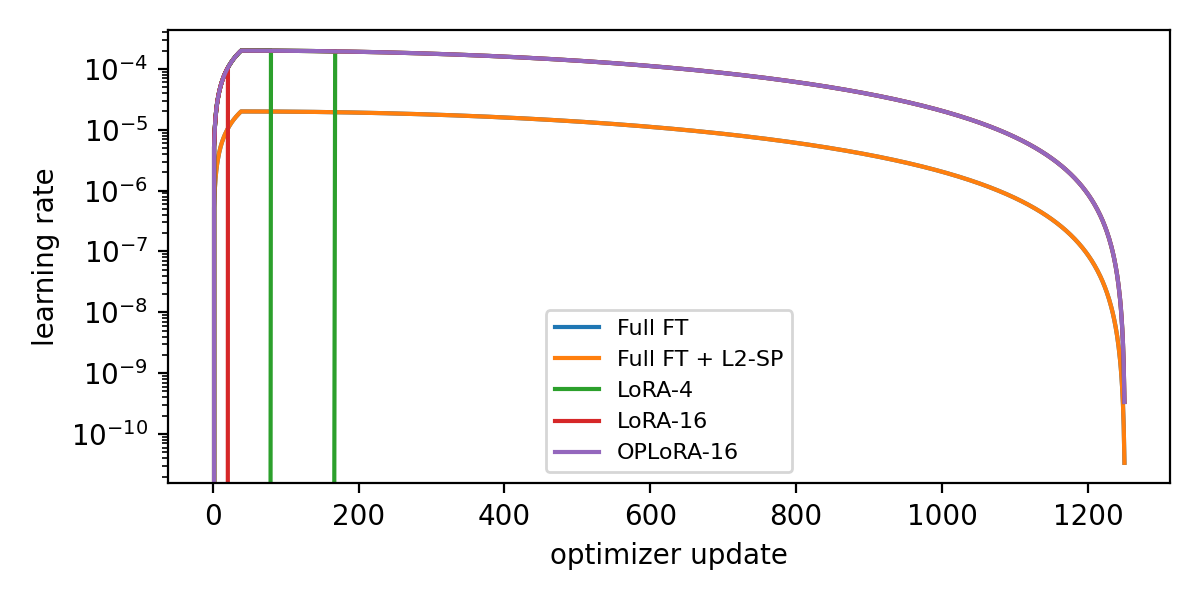
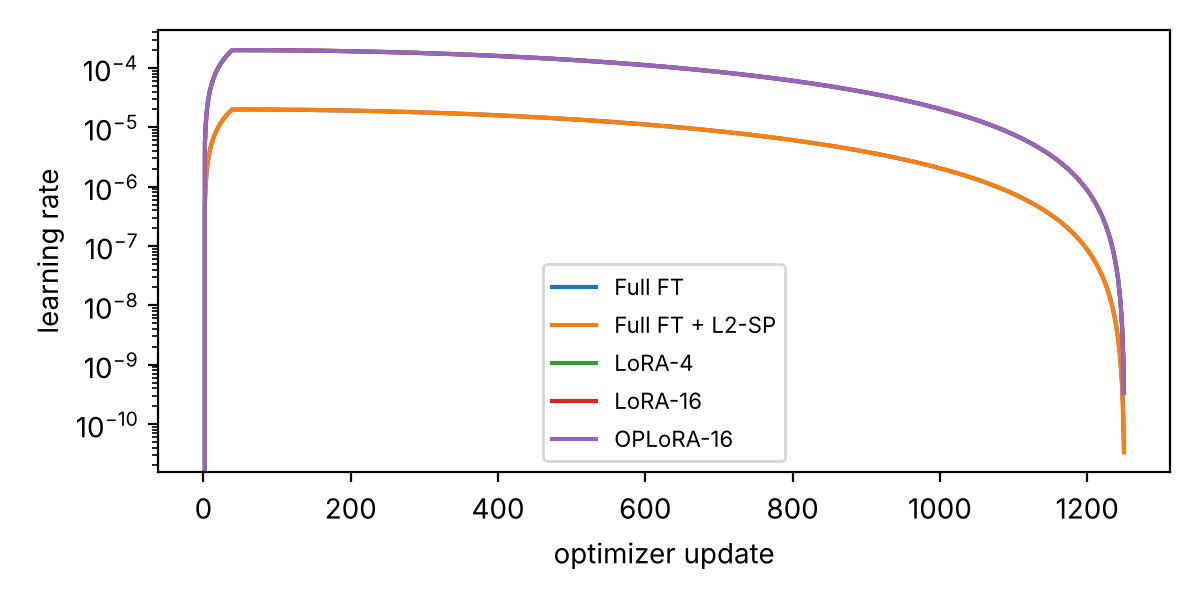
Task 1: keep only the final attempt in training logs; regenerate figures
LoRA-4 and LoRA-16 were restarted from scratch before their first checkpoint, and
the trainer only trimmed the log on resume, so early updates appeared up to three
times and the loss/LR plots drew lines back to update 0.

- common/utils.py: final_attempt_log() keeps the last row per update.
- task1/analyze.py: uses it for curves/regularization; committed logs are cleaned,
  with dropped-row counts in results/task1/runs/log_cleaning.json.
- task1/train.py, task2/train.py: clear the log on a fresh start.
- Regenerated results/task1/report figures (tables and regularization unchanged).
- report/progress: real OPLoRA constraint residuals; Task 1 run notes.

Claude-Session: https://claude.ai/code/session_01EvFs4FW3gdZLJCbrekro76

diff --git a/task1/analyze.py b/task1/analyze.py
@@ -7,6 +7,8 @@ Outputs in results/task1/report/:
   sft_loss.png, lr.png, l2sp_terms.png, benchmarks.png, diagnostics.png
 """
 import argparse
+import json
+import os
 import shutil
 
 import matplotlib
@@ -16,7 +18,8 @@ import matplotlib.pyplot as plt
 import numpy as np
 import pandas as pd
 
-from common.utils import REPO_ROOT, load_config, load_json, out_root, read_jsonl, results_root, save_json
+from common.utils import (REPO_ROOT, final_attempt_log, load_config, load_json, out_root, read_jsonl, results_root,
+                          save_json)
 
 PRIMARY = [("gsm8k", "flexible_em", "GSM8K (flex EM)"), ("hellaswag", "acc_norm", "HellaSwag (acc_norm)"),
            ("boolq", "acc", "BoolQ (acc)"), ("arc_easy", "acc_norm", "ARC-Easy (acc_norm)")]
@@ -83,7 +86,7 @@ def training_curves(out):
         p = out_root() / "task1/runs" / v / "train_log.jsonl"
         if not p.exists():
             continue
-        log = read_jsonl(p)
+        log = final_attempt_log(read_jsonl(p))
         u = np.array([r["update"] for r in log])
         loss = [r["sft_loss"] for r in log]
         s = smooth(loss)
@@ -130,7 +133,7 @@ def resources(out):
             if k in s and s[k]:
                 r[k] = s[k] / 2**20 if k.endswith("bytes") else s[k]
         rows.append(r)
-        log = read_jsonl(out_root() / "task1/runs" / v / "train_log.jsonl")
+        log = final_attempt_log(read_jsonl(out_root() / "task1/runs" / v / "train_log.jsonl"))
         reg[v] = {"displacement": s.get("displacement"), "final_sft_loss_avg_last50": float(np.mean([r["sft_loss"] for r in log[-50:]]))}
         if v == "full_ft_l2sp":
             reg[v].update({"omega_final": log[-1]["omega"], "lambda_omega_final": log[-1]["lambda_omega"],
@@ -169,13 +172,32 @@ def diagnostics_fig(out):
 
 
 def sync_run_logs():
-    """Copy small per-run logs from $PA3_OUT into results/ so they are committed with the repo."""
+    """Copy small per-run logs from $PA3_OUT into results/ so they are committed with the repo.
+
+    The committed train_log.jsonl keeps only the final attempt's rows (see final_attempt_log); how many rows of
+    earlier from-scratch attempts were dropped is recorded in results/task1/runs/log_cleaning.json.
+    """
+    cleaning = {}
     for v in VARIANTS:
-        src = out_root() / "task1/runs" / v
+        src, dst = out_root() / "task1/runs" / v, results_root() / "task1/runs" / v
         for f in ("train_log.jsonl", "summary.json", "meta.json", "ckpt_sizes.json"):
-            if (src / f).exists():
-                (results_root() / "task1/runs" / v).mkdir(parents=True, exist_ok=True)
-                shutil.copy(src / f, results_root() / "task1/runs" / v / f)
+            if not (src / f).exists():
+                continue
+            dst.mkdir(parents=True, exist_ok=True)
+            if f == "train_log.jsonl":
+                rows = read_jsonl(src / f)
+                keep = final_attempt_log(rows)
+                tmp = dst / (f + ".tmp")
+                with open(tmp, "w", encoding="utf-8") as fh:
+                    for r in keep:
+                        fh.write(json.dumps(r) + "\n")
+                os.replace(tmp, dst / f)
+                cleaning[v] = {"rows_in_log": len(rows), "rows_kept": len(keep),
+                               "earlier_attempt_rows_dropped": len(rows) - len(keep)}
+            elif (src / f).resolve() != (dst / f).resolve():
+                shutil.copy(src / f, dst / f)
+    if cleaning:
+        save_json(cleaning, results_root() / "task1/runs/log_cleaning.json")
 
 
 def main():

diff --git a/report/main.tex b/report/main.tex
@@ -92,7 +92,7 @@ Frozen weights & -- & -- & FP16 & FP16 & FP16 \\\bottomrule
 \item \textbf{Loss.} Summed token cross-entropy divided by the number of supervised tokens in the whole effective batch, so every token has equal weight regardless of how examples fall into micro-batches. The LM head is applied only at supervised positions.
 \item \textbf{Schedule.} We use the Hugging Face cosine schedule with warmup, which starts at LR 0, so update 1 makes no parameter change.
 \item \textbf{L2-SP.} The penalty $\frac{\lambda}{2}\|\theta-\theta_0\|^2$ covers all parameters. Its gradient $\lambda(\theta-\theta_0)$ is added after unscaling and before clipping, so clipping applies to the full objective. $\theta_0$ is an FP32 copy on the GPU, whose memory and time are reported as overhead. AdamW's decoupled weight decay (0.01) remains active in this run as in all others, so L2-SP acts on top of it.
-\item \textbf{LoRA and OPLoRA.} Implemented from scratch (no PEFT). $A$ uses Kaiming-uniform initialization ($a=\sqrt5$, as in PEFT) and $B=0$; initialization is seeded per module name, so LoRA-16 and OPLoRA-16 begin from identical factors. OPLoRA computes the top-$k$ left and right singular vectors $U_k,V_k$ of each frozen $W_0$ once in FP32 and uses projected factors $\tilde B=(I-U_kU_k^\top)B$ and $\tilde A=A(I-V_kV_k^\top)$, so $\Delta W=\frac{\alpha}{r}\tilde B\tilde A$ is orthogonal to both subspaces. Projections run in FP32 outside autocast; the measured constraint residual is about $3\times10^{-7}$.
+\item \textbf{LoRA and OPLoRA.} Implemented from scratch (no PEFT). $A$ uses Kaiming-uniform initialization ($a=\sqrt5$, as in PEFT) and $B=0$; initialization is seeded per module name, so LoRA-16 and OPLoRA-16 begin from identical factors. OPLoRA computes the top-$k$ left and right singular vectors $U_k,V_k$ of each frozen $W_0$ once in FP32 and uses projected factors $\tilde B=(I-U_kU_k^\top)B$ and $\tilde A=A(I-V_kV_k^\top)$, so $\Delta W=\frac{\alpha}{r}\tilde B\tilde A$ is orthogonal to both subspaces. Projections run in FP32 outside autocast. On the exported factors the relative constraint residuals $\|U_k^\top\tilde B\|/\|\tilde B\|$ and $\|\tilde A V_k\|/\|\tilde A\|$ are at most $1.3\times10^{-4}$ and $1.9\times10^{-4}$, and $\rho_k$ of the trained update is below $10^{-7}$ at every diagnosed layer.
 \item \textbf{Export check.} Adapters are merged into FP16 weights ($W_0+\Delta W$ computed in FP32) for evaluation. Merged and unmerged logits are compared, and the OPLoRA constraint is re-verified on the exported factors.
 \item \textbf{Checkpoints.} Checkpoints are written at updates 312, 625, 937 and 1{,}250; weights at 625 and 1{,}250 are kept for evaluation. Only the newest checkpoint keeps optimizer state. Resuming from a checkpoint was verified to reproduce uninterrupted training exactly.
 \item \textbf{Evaluation.} The primary metrics are flexible-extract exact match for GSM8K and \texttt{acc\_norm} for HellaSwag and ARC-Easy, \texttt{acc} for BoolQ. Because lm-eval does not pass \texttt{enable\_thinking} to the chat template, a small subclass renders it with thinking disabled, and the rendered GSM8K prompt is asserted to contain the empty think block. GSM8K uses the task's stock stop sequences and filters with a fixed generation batch of 64; likelihood tasks use no chat template.

diff --git a/common/utils.py b/common/utils.py
@@ -72,6 +72,18 @@ def truncate_jsonl(path, key, max_value):
     return len(rows) - len(keep)
 
 
+def final_attempt_log(rows, key="update"):
+    """Rows of the attempt that produced the final weights: the last occurrence of each key value, in key order.
+
+    A run restarted from scratch before its first checkpoint (or written by an older trainer that did not clear
+    the log on a fresh start) repeats the early updates; later attempts always come after earlier ones in the file.
+    """
+    last = {}
+    for r in rows:
+        last[r[key]] = r
+    return [last[k] for k in sorted(last)]
+
+
 def read_jsonl(path):
     with open(path, "r", encoding="utf-8") as f:
         return [json.loads(line) for line in f if line.strip()]

diff --git a/task1/train.py b/task1/train.py
@@ -241,6 +241,11 @@ def main():
         start = s["update"]
         dropped = truncate_jsonl(run_dir / "train_log.jsonl", "update", start)
         print(f"resumed from {ck.name} (update {start}); dropped {dropped} log lines past the checkpoint", flush=True)
+    else:
+        # fresh start: discard rows from an earlier attempt that never reached a checkpoint
+        dropped = truncate_jsonl(run_dir / "train_log.jsonl", "update", 0)
+        if dropped:
+            print(f"no checkpoint: starting from update 0; dropped {dropped} log lines of an earlier attempt", flush=True)
 
     n_trainable = count_params(trainable)
     meta = {"variant": args.variant, "method": method, "lr": vcfg["lr"], "l2sp_lambda": lam,

diff --git a/task2/train.py b/task2/train.py
@@ -172,6 +172,9 @@ def main():
                               seed=cfg["seed"])
         save_json(cal, results_root() / "task2" / run / "calibration.json")
         st["calibration"] = cal
+        # fresh start: discard log rows of an earlier attempt that never reached a checkpoint
+        for f in ("train_log.jsonl", "dev_log.jsonl"):
+            truncate_jsonl(rd / f, "update", -1)
     else:
         st = resume["state"]
         vlm.connector.load_state_dict(resume["connector"])

diff --git a/progress.md b/progress.md
@@ -18,6 +18,13 @@ All three tasks have complete pipelines that run end to end in CPU smoke tests: 
 - On resume, `train_log.jsonl` (and the Task 2 `dev_log.jsonl`) are trimmed to the checkpoint's update, so updates are never logged twice.
 - Notebooks set `PA3_RESULTS` to Drive (`MyDrive/ATML-PA3/results`), seeded from the committed `results/`; the save cell rsyncs Drive → repo before committing. A disconnect therefore loses at most the training since the last checkpoint and the condition being evaluated.
 
+## Task 1 completed on Colab A100 (2026-10-29)
+- All 5 trainings and all 7 evaluations ran on Colab A100-SXM4-40GB, **except the baseline evaluation, which ran on an L4** (scores unaffected in principle; GSM8K time 29.5 min vs 8–12 min on the A100). Re-run it on the A100 if evaluation times are compared.
+- LoRA-4 and LoRA-16 were each restarted from scratch before their first checkpoint (248 and 21 extra log rows). The old trainer kept those rows; committed logs now hold only the final attempt (`results/task1/runs/log_cleaning.json`), and both trainers now clear the log on a fresh start. Benchmark scores and summaries were unaffected.
+- GSM8K strict-match is 0 for every condition: the `gsm8k_cot` strict regex needs "The answer is N.", while fine-tuned models write "The answer is: N" (MetaMathQA style) and the baseline rarely uses the phrase. Report flexible-extract only, and say why.
+- BoolQ changes follow a yes/no bias shift: predicted-"yes" rate 57.7% (baseline) → 27.1% (Full FT), 42.6% (L2-SP), 54–64% (LoRA/OPLoRA); gold is 62.2%.
+- Remaining: 42-row manual annotation (`results/task1/qualitative/annotation_sheet.csv`).
+
 ## Kaggle runs (added 2026-10-28)
 Colab Pro L4 sessions kept disconnecting, so Task 1 and Task 2 move to Kaggle (2 x T4, background "Save & Run All" versions, 12 h limit, ~30 GPU h/week). See `notebooks/kaggle/` and `scripts/kaggle_run.py`.
 - All Task 1 training and evaluation runs on the same GPU type (T4), so timings stay comparable. Two runs share a session, one per GPU; note this in the resources discussion.
@@ -50,7 +57,7 @@ Times are rough estimates for an L4, not measurements.
 | Data selection `task1/prepare_data.py` | ✅ | 40,000 kept from the first 40,002 MetaMathQA rows. Excluded: 2 too long, 0 empty, 0 GSM8K-test overlaps. 9.91M tokens (7.10M supervised), mean length 248, max 1,941. Token hash `5db9ba4d…`. → `results/task1/data_selection.json` |
 | Probe set `task1/sample_probes.py` | ✅ | 32 GSM8K test + 32 HellaSwag val (seed 6304), fixed before any results. Prompt formats match lm-eval's logged prompts. → `results/task1/probe_set.json` |
 | Trainer (5 variants) `task1/train.py` | 🧪 ⏳ | Loss normalized by tokens over the effective batch; LM head applied only at supervised positions; FP16 autocast + GradScaler; unscale → L2-SP grad → clip; skipped updates logged; resume verified bit-exact. |
-| LoRA / OPLoRA `common/lora.py` | 🧪 | Deterministic per-module init, so LoRA-16 and OPLoRA-16 share initial factors. Projection done in FP32 outside autocast; constraint residual ~3e-7. |
+| LoRA / OPLoRA `common/lora.py` | 🧪 | Deterministic per-module init, so LoRA-16 and OPLoRA-16 share initial factors. Projection done in FP32 outside autocast; constraint residual ~3e-7 on CPU smoke tests, ≤1.9e-4 relative on the real A100 run (ρ_k < 1e-7). |
 | Export + merge check `task1/export_models.py` | 🧪 ⏳ | Merged vs unmerged logits plus OPLoRA constraint check → `results/task1/export/`. |
 | lm-eval runner `task1/evaluate.py` | 🧪 ⏳ | Forces `enable_thinking=False` and asserts `</think>` in the rendered prompt. gsm8k_cot 0-shot, `max_gen_toks=1024`, stock stops `["Q:","</s>","<|im_end|>"]` and filters. Per-example rows include extracted answer, generated tokens and truncation flag. |
 | Diagnostics ρ_k, η, R(z) `task1/diagnostics.py` | 🧪 ⏳ | FP32; activations cached from the starting model. Also reports input-subspace ρ and the random baseline k/d = 0.125. |
